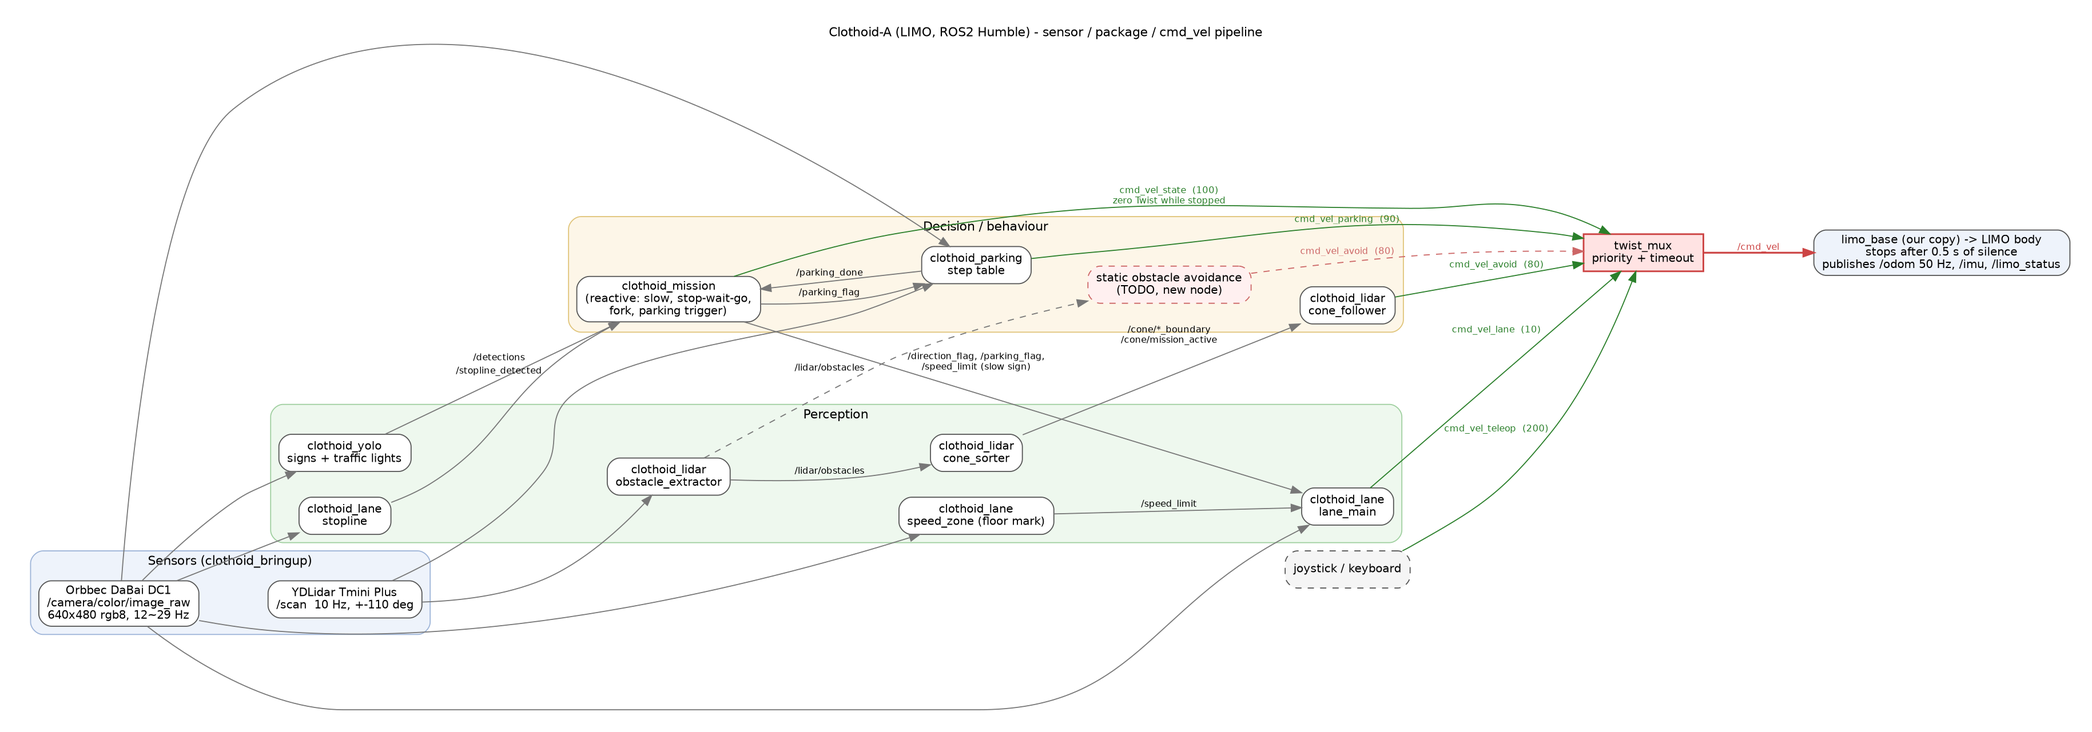
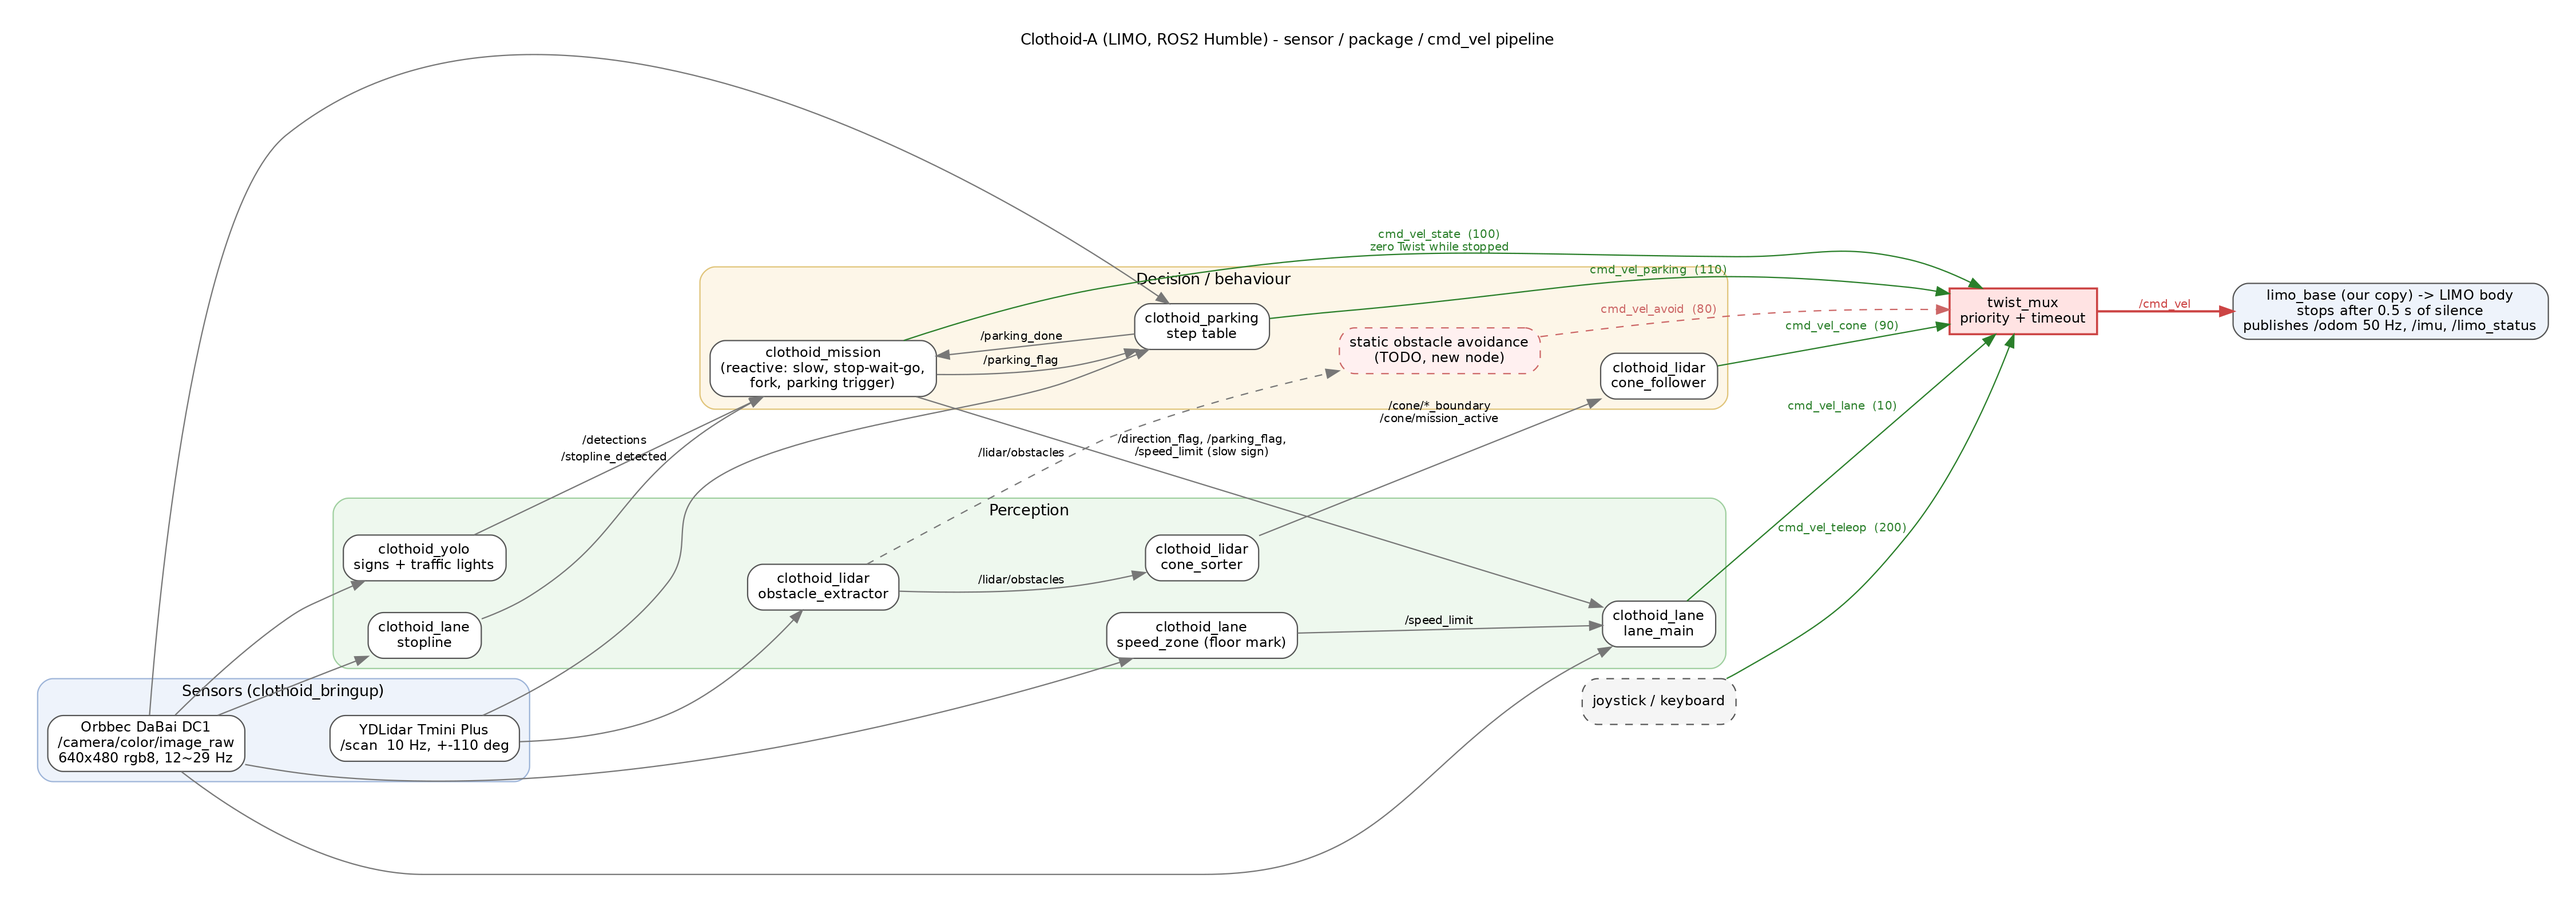
mux: cone_follower on its own input /cmd_vel_cone (90), avoid (80) is static_avoid only
1113 auto 02/05: static_avoid started again at the cone course and both nodes sent on
/cmd_vel_avoid, interleaved with no priority between them. cone above avoid: the cone walls can
look like obstacles to static_avoid. Topic lists in decision_viz, latency_monitor, load_profile
gaps and the bag record command; mux tables in DECISION_FLOW / INTERFACES / PACKAGES / pipeline
(parking / finish there corrected to 110).

diff --git a/ros2_ws/src/clothoid_lidar/clothoid_lidar/cone_follower_node.py b/ros2_ws/src/clothoid_lidar/clothoid_lidar/cone_follower_node.py
@@ -1,7 +1,7 @@
 #!/usr/bin/env python3
 """Rubber cone driving node (ROS2 port of 2025 `rubber_cone_node`).
 
-Publishes a Twist on `cmd_topic` (twist_mux input `avoid`). Steering from pure pursuit is
+Publishes a Twist on `cmd_topic` (twist_mux input `cone`, 90). Steering from pure pursuit is
 converted with the bicycle model: w = v * tan(delta) / wheelbase. Reverse (one boundary only)
 uses the same formula with a negative speed; the sign of angular.z while reversing has to be
 confirmed on the car (see docs/INTERFACES.md).
@@ -28,7 +28,7 @@ class ConeFollowerNode(Node):
     def __init__(self):
         super().__init__('cone_follower')
 
-        self.declare_parameter('cmd_topic', '/cmd_vel_avoid')
+        self.declare_parameter('cmd_topic', '/cmd_vel_cone')
         self.declare_parameter('left_boundary_topic', '/cone/left_boundary')
         self.declare_parameter('right_boundary_topic', '/cone/right_boundary')
         self.declare_parameter('mission_active_topic', '/cone/mission_active')

diff --git a/ros2_ws/src/clothoid_bringup/clothoid_bringup/latency_monitor.py b/ros2_ws/src/clothoid_bringup/clothoid_bringup/latency_monitor.py
@@ -40,7 +40,7 @@ class LatencyMonitor(Node):
             '/camera/color/image_raw', '/scan', '/lidar/obstacles', '/detections'])
         self.declare_parameter('cmd_topics', [
             '/cmd_vel_lane=/camera/color/image_raw', '/cmd_vel_state=/camera/color/image_raw',
-            '/cmd_vel_parking=/camera/color/image_raw', '/cmd_vel_avoid=/scan',
+            '/cmd_vel_parking=/camera/color/image_raw', '/cmd_vel_cone=/scan', '/cmd_vel_avoid=/scan',
             '/cmd_vel_teleop='])
         self.declare_parameter('mux_output_topic', '/cmd_vel')
         self.declare_parameter('report_sec', 5.0)

diff --git a/ros2_ws/src/clothoid_debug/clothoid_debug/decision_viz.py b/ros2_ws/src/clothoid_debug/clothoid_debug/decision_viz.py
@@ -33,7 +33,7 @@ from clothoid_lane.lane_detector import LaneParams, make_warp_matrix
 
 # twist_mux.yaml: name, topic, timeout, highest priority first
 MUX_INPUTS = (('parking', '/cmd_vel_parking', 0.3), ('state', '/cmd_vel_state', 0.3),
-              ('avoid', '/cmd_vel_avoid', 0.3), ('lane', '/cmd_vel_lane', 0.3))
+              ('cone', '/cmd_vel_cone', 0.3), ('avoid', '/cmd_vel_avoid', 0.3), ('lane', '/cmd_vel_lane', 0.3))
 
 def rgba(rgb, a=1.0) -> ColorRGBA:
     return ColorRGBA(r=float(rgb[0]), g=float(rgb[1]), b=float(rgb[2]), a=float(a))

diff --git a/tools/load_profile/gaps.py b/tools/load_profile/gaps.py
@@ -16,7 +16,7 @@ import sqlite3
 
 import numpy as np
 
-TOPICS = ['/camera/color/image_raw', '/scan', '/imu', '/odom', '/cmd_vel_lane', '/cmd_vel_avoid',
+TOPICS = ['/camera/color/image_raw', '/scan', '/imu', '/odom', '/cmd_vel_lane', '/cmd_vel_cone', '/cmd_vel_avoid',
           '/avoid/active', '/avoid/lane']
 CONTEXT = ['/camera/color/image_raw', '/imu', '/scan', '/cmd_vel_lane', '/avoid/active']
 

diff --git a/docs/DECISION_FLOW.md b/docs/DECISION_FLOW.md
@@ -29,15 +29,16 @@ limo2 `~/2026-autorace-namgyu/Clothoid-A`와의 차이는 [9장](#9-limo2와-다
 |---|---|---|---|---|
 | teleop | `/cmd_vel_teleop` | 200 | 0.5 s | 사람 (조이스틱·키보드) |
 | state | `/cmd_vel_state` | 100 | 0.3 s | mission (신호등·보행자 정지 중 0) |
-| parking | `/cmd_vel_parking` | 90 | 0.3 s | parking |
-| finish | `/cmd_vel_finish` | 90 | 0.3 s | finish |
-| avoid | `/cmd_vel_avoid` | 80 | 0.3 s | cone_follower (콘 구간) |
+| parking | `/cmd_vel_parking` | 110 | 0.3 s | parking |
+| finish | `/cmd_vel_finish` | 110 | 0.3 s | finish |
+| cone | `/cmd_vel_cone` | 90 | 0.3 s | cone_follower (콘 구간) |
+| avoid | `/cmd_vel_avoid` | 80 | 0.3 s | static_avoid (정적 장애물 구간) |
 | lane | `/cmd_vel_lane` | 10 | 0.3 s | lane_main |
 
 핵심 규칙
 - **노드가 보내기를 멈추면** timeout 뒤 다음 우선순위로 자동으로 넘어간다. 그래서 각 미션 노드는
   "자기 구간에서만 보내고, 끝나면 조용히 있는" 방식으로 lane에게 차를 돌려준다.
-- parking과 finish는 **같은 90**이다. 둘이 동시에 보내면 어느 쪽이 이길지 정해져 있지 않다.
+- parking과 finish는 **같은 110**이다. 둘이 동시에 보내면 어느 쪽이 이길지 정해져 있지 않다.
   정상 흐름에서는 parking이 끊긴 뒤 finish가 시작해서 겹치지 않는다.
 - lane은 항상 보내고 있지만 우선순위가 가장 낮아서, 다른 노드가 보내는 동안은 무시된다.
 
@@ -61,7 +62,7 @@ limo2 `~/2026-autorace-namgyu/Clothoid-A`와의 차이는 [9장](#9-limo2와-다
 |---|---|---|
 | obstacle_extractor (lidar) | `/scan` | `/lidar/obstacles` (PoseArray, base_link) |
 | cone_sorter (lidar) | `/lidar/obstacles` | `/cone/left_boundary`, `/cone/right_boundary` (Path), `/cone/mission_active` (Bool) |
-| cone_follower (lidar) | 위 3개 | `/cmd_vel_avoid`, `/cone/centerline` (Path), `/cone/target` (PointStamped) |
+| cone_follower (lidar) | 위 3개 | `/cmd_vel_cone`, `/cone/centerline` (Path), `/cone/target` (PointStamped) |
 | lane_main (lane) | `/camera/color/image_raw`, `/direction_flag`, `/parking_flag`, `/speed_limit` | `/cmd_vel_lane`, `/lane/debug_image`, `/lane/target_warp`, `/lane/left_warp`, `/lane/right_warp` |
 | stopline (lane) | `/camera/color/image_raw` | `/stopline_detected` (Bool, 횡단보도 줄무늬), `/stopline_near` (Bool, 정지선 한 줄), `/stopline/debug_image` |
 | speed_zone (lane) | `/camera/color/image_raw` | `/speed_limit` (Float32) |
@@ -83,7 +84,7 @@ limo2 `~/2026-autorace-namgyu/Clothoid-A`와의 차이는 [9장](#9-limo2와-다
 /scan ─▶ obstacle_extractor ─▶ /lidar/obstacles ─▶ cone_sorter ─▶ left/right boundary + mission_active
                                                                    │
                                                                    ▼
-                                                             cone_follower ─▶ /cmd_vel_avoid (우선순위 80)
+                                                             cone_follower ─▶ /cmd_vel_cone (우선순위 90)
 ```
 
 ### 3.1 obstacle_extractor: 스캔 → 콘 중심점
@@ -122,7 +123,7 @@ limo2 `~/2026-autorace-namgyu/Clothoid-A`와의 차이는 [9장](#9-limo2와-다
    - 국소 3차 최소제곱 평활 (창 9개) → 3차 스플라인으로 5 cm 간격 재샘플
 4. **Pure pursuit**: 중앙선에서 차와 가장 가까운 점부터 `lfd` 0.4 m 앞의 점을 목표로,
    θ = atan2(y, x + 0.1)(후축 기준), δ = atan(2·L·sinθ / lfd).
-5. 속도 0.4 m/s, ω = v·tan δ / L 로 `/cmd_vel_avoid` 발행.
+5. 속도 0.4 m/s, ω = v·tan δ / L 로 `/cmd_vel_cone` 발행.
 
 콘 노드는 콘이 없을 때 조용하다. 콘 구간에 들어오면 우선순위 80으로 lane(10)을 이기고, 끝나면 lane으로 돌아간다.
 

diff --git a/docs/INTEGRATION_TASKS.md b/docs/INTEGRATION_TASKS.md
@@ -80,7 +80,7 @@
 | 주차 중 mission | state(100)가 parking(90)보다 높음 | 주차 중 신호등 오탐이 주차를 덮는지. `/parking_flag` 동안 mission 정지를 끌지 |
 | 정지 명령 | `Twist(0,0)` | 바닥에서 조향이 중앙에 오는지 |
 
-### 7-2. 우선순위 재설계 (2026-11-09: parking 110만 적용, cone 분리는 보류, finish는 `namgyu/parking` 병합 때 105로 맞춘다)
+### 7-2. 우선순위 재설계 (2026-11-09: parking 110 적용. 2026-11-13: cone 90 `/cmd_vel_cone` 분리 적용. finish는 `namgyu/parking` 병합 때 105로 맞춘다)
 지금 값은 2025 미션 기준이다. 원칙: **각 노드는 자기 미션 구간에서만 발행하고, 우선순위는 구간이 겹치거나 오탐일 때 누가 이기는지만 정한다.**
 
 | 입력 | 지금 | 제안 | 이유 |
@@ -89,14 +89,15 @@
 | lock `estop` | 없음 | 150 | 시험용 arm lock (4번, 적용) |
 | parking | 90 | **110** | 마지막 미션이고 바로 앞이 신호등이다. 주차 중 신호등 잔상이나 시작선을 정지선으로 오인한 state 정지가 주차를 덮지 않게 한다. parking은 `/parking_flag`와 시작선이 둘 다 있어야 발행해 구간이 좁다. 대안: state 100을 유지하고 mission이 `/parking_flag` 동안 정지를 끈다 |
 | state | 100 | 100 | 보행자·신호등 정지는 주행보다 위 |
-| **cone** | (avoid 공유) | **90, `/cmd_vel_cone` 신설** | 원리가 다르다(콘 벽 사이 탈출 vs 3차선 차량 회피 경로계획). 콘 벽을 회피 노드가 장애물로 볼 수 있으므로 cone이 이긴다. 입력이 나뉘면 bag에서 누가 냈는지도 바로 보인다 |
+| **cone** | 90 (`/cmd_vel_cone`, 2026-11-13 적용) | **90, `/cmd_vel_cone` 신설** | 원리가 다르다(콘 벽 사이 탈출 vs 3차선 차량 회피 경로계획). 콘 벽을 회피 노드가 장애물로 볼 수 있으므로 cone이 이긴다. 입력이 나뉘면 bag에서 누가 냈는지도 바로 보인다 |
 | avoid | 80 | 80 | 정적 장애물(정차 LIMO) 회피. `/cone/mission_active` 동안은 발행하지 않는다 |
 | lane | 10 | 10 | 기본 주행 |
 
 정할 것: parking과 state의 순서(교환 또는 mission에서 게이트). 정해지면 `twist_mux.yaml`, `INTERFACES.md` 표, 각 노드 `cmd_topic`을 함께 바꾼다.
 
 ### 7-3. 라이다 담당에게 요청할 것 (cone_follower, 제안)
-1. `cmd_topic`을 `/cmd_vel_cone`으로 바꾼다(`lidar.yaml` 한 줄, 7-2와 함께).
+1. [x] `cmd_topic`을 `/cmd_vel_cone`으로 바꾼다(2026-11-13, `feature/mux-cone`에서 `cone_follower_node.py` 기본값을 바꿨다).
+   계기: 1113 auto 02/05에서 static_avoid가 콘 구간에서 다시 시작해 cone_follower와 같은 `/cmd_vel_avoid`에 명령이 섞였다.
 2. **콘 구간 동안 제어권 유지:** 지금 `control()`은 경계 메시지가 올 때만 돌고, 경계가 모두 stale이거나 `decide()`가 `None`이면 아무것도 내지 않는다. `cone_sorter`는 빈 경계를 발행하지 않는다. 0.3s 조용하면 mux가 `lane`으로 넘어가고, 차선 판정이 없는 구간에서 `lane_main`이 콘이나 바닥 무늬를 차선으로 보면 그쪽으로 조향한다.
    - 제안: `/cone/mission_active` 동안 **타이머(예: 20Hz)로 항상 발행**한다. 판단 성공이면 그 명령, 실패면 `hold_sec`(예: 0.3s) 동안 직전 명령, 그 뒤에는 `Twist(0,0)` 정지. `mission_active`가 false가 되면 발행을 멈춰 lane이 이어받는다.
    - 덤: 좌·우 경계 메시지마다 따로 `control()`이 돌아 한쪽이 stale로 판정되던 흔들림(위험 D3)도 줄어든다.

diff --git a/docs/PACKAGES.md b/docs/PACKAGES.md
@@ -23,7 +23,7 @@
   │                         clothoid_mission ── cmd_vel_state ──────────► twist_mux ─ /cmd_vel ─ limo_base
   │                          │  │  /direction_flag, /parking_flag, /speed_limit      ▲   ▲
   │                          │  └──────────────► clothoid_parking ── cmd_vel_parking ┘   │
-라이다 ─ clothoid_lidar ── cmd_vel_avoid ─────────────────────────────────────────────────┘
+라이다 ─ clothoid_lidar ── cmd_vel_cone / cmd_vel_avoid ──────────────────────────────────┘
 ```
 
 ## 패키지별 현황

diff --git a/docs/INTERFACES.md b/docs/INTERFACES.md
@@ -52,7 +52,9 @@ Every node publishes `geometry_msgs/Twist` to **its own** `twist_mux` input, nev
 | `/cmd_vel_teleop` | 200 | keyboard / joystick |
 | `/cmd_vel_state` | 100 | `clothoid_mission` (stop, wait, go) |
 | `/cmd_vel_parking` | 110 | `clothoid_parking` |
-| `/cmd_vel_avoid` | 80 | `clothoid_lidar` `cone_follower`; static obstacle avoidance goes here too |
+| `/cmd_vel_finish` | 110 | `clothoid_finish` |
+| `/cmd_vel_cone` | 90 | `clothoid_lidar` `cone_follower` (above avoid: cone walls can look like obstacles to static_avoid) |
+| `/cmd_vel_avoid` | 80 | `clothoid_lidar` `static_avoid` |
 | `/cmd_vel_lane` | 10 | `lane_main` |
 
 `twist_mux` writes the winner to `/cmd_vel`, which `limo_base` reads. `twist_mux` goes silent when all its inputs time

diff --git a/docs/PIPELINE_LOAD_PLAN.md b/docs/PIPELINE_LOAD_PLAN.md
@@ -384,7 +384,7 @@ ls -la /dev/shm | grep -i fastrtps | head       # SHM 세그먼트가 있는지
 sudo tcpdump -i lo -c 2000 udp 2>/dev/null | wc -l   # 영상이 lo UDP 조각으로 가면 수천 개/초
 
 # 6) 녹화 (raw 영상 빼고, P0-3)
-ros2 bag record -o ~/bags/$(date +%m%d_%H%M) /scan /odom /imu /tf /tf_static /cmd_vel_lane /cmd_vel_avoid \
+ros2 bag record -o ~/bags/$(date +%m%d_%H%M) /scan /odom /imu /tf /tf_static /cmd_vel_lane /cmd_vel_cone /cmd_vel_avoid \
   /avoid/active /avoid/lane /avoid/done /direction_flag /limo_status /rosout /camera/color/camera_info
 ```
 
